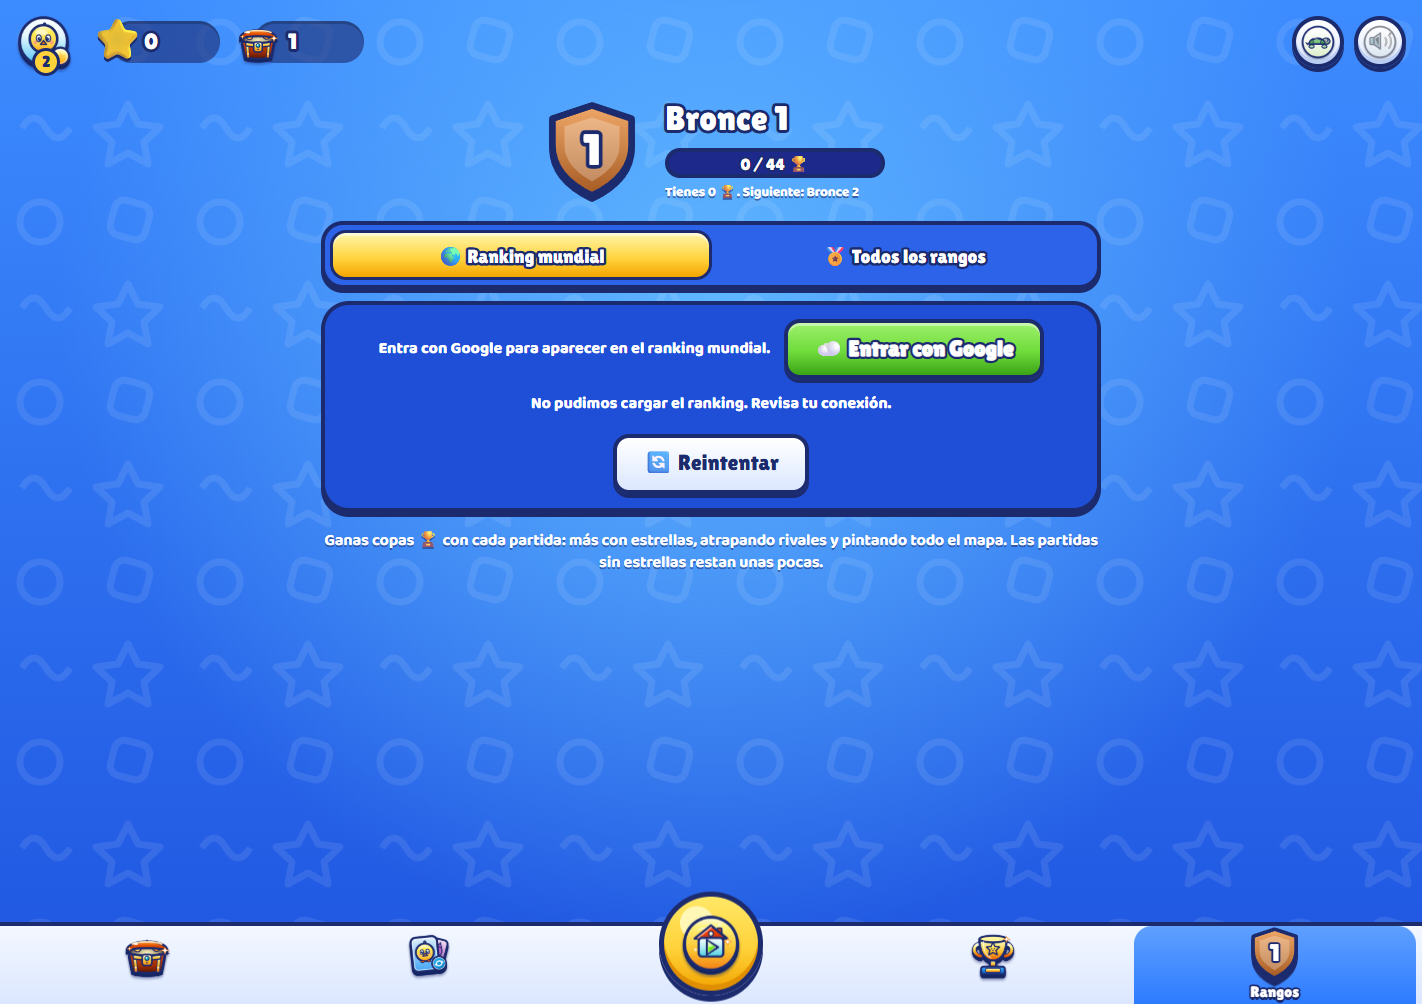
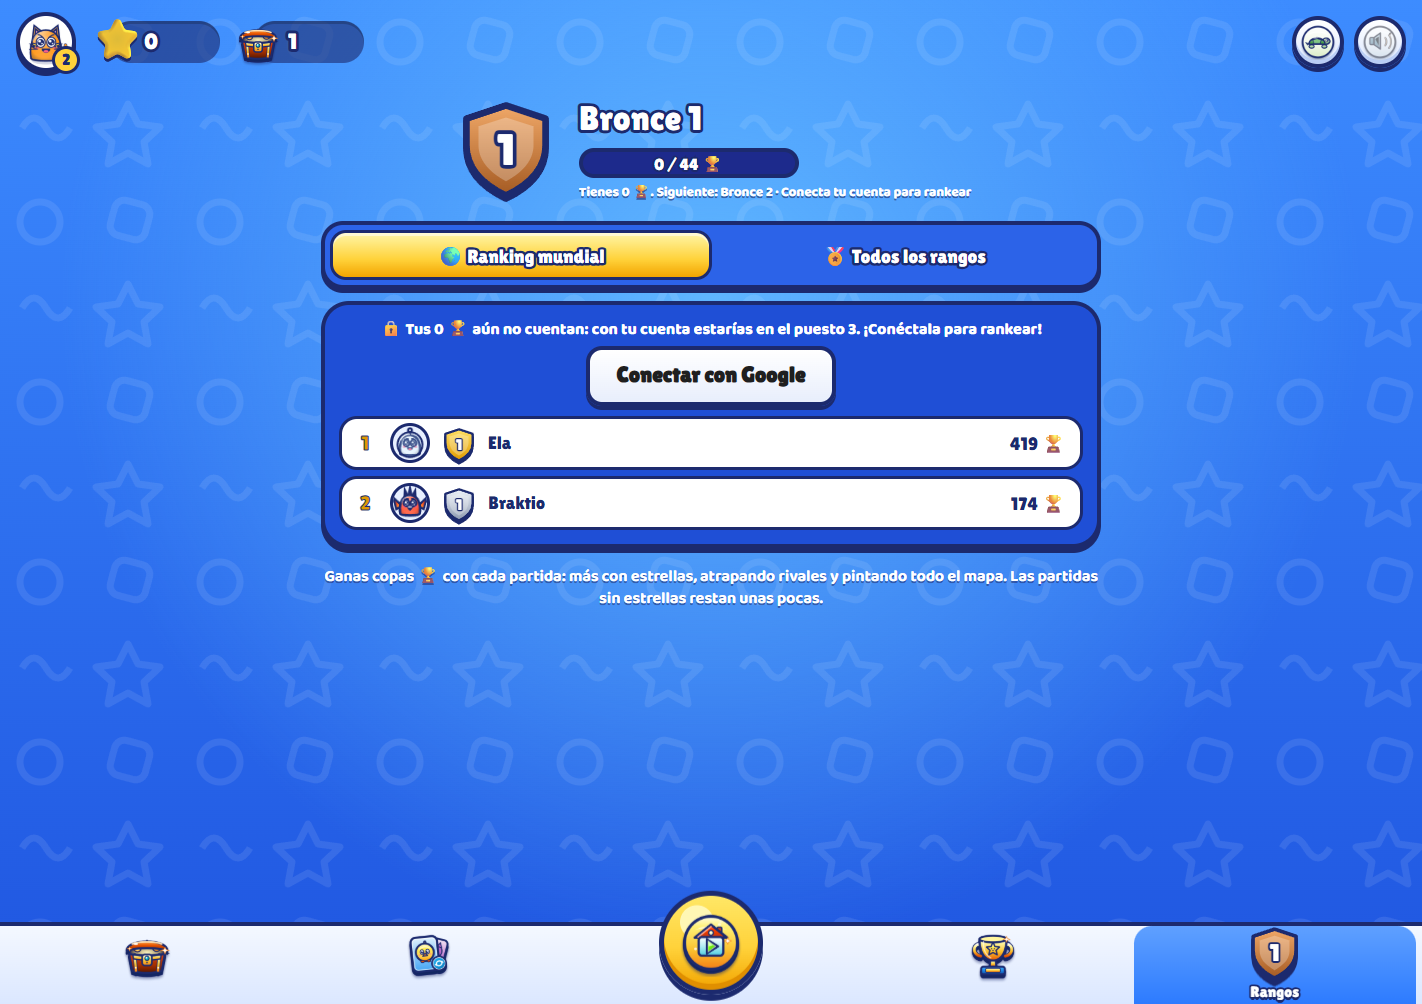
Rangos invita a conectar la cuenta de Google para rankear
Al entrar en Rangos sin cuenta aparece una invitación (una vez por visita), y la lista muestra en qué puesto estarías con tus copas. Al conectarte, el ranking se recarga contigo dentro.

diff --git a/game.js b/game.js
@@ -400,7 +400,7 @@ function showScreen(name) {
   $('play').setAttribute('aria-label', name === 'home' ? '¡A jugar!' : 'Volver al inicio');
   document.querySelector('.screens').scrollTop = 0;
   renderMenu();
-  if (name === 'ranks') void loadLeaderboard();
+  if (name === 'ranks') { void loadLeaderboard(); suggestRankLogin(); }
 }
 document.querySelectorAll('[data-tab]').forEach(button => button.onclick = () => showScreen(button.dataset.tab));
 $('hangar-items').onclick = event => {
@@ -779,7 +779,19 @@ function rankResult(before, after, change) {
   return `<div class="rank-result">${rankBadge(after.tier, 44)}<span>${change >= 0 ? '+' : ''}${change} 🏆 · <b>${after.name}</b>${moved}</span></div>`;
 }
 // Signed-in players keep their row of the global ranking up to date.
-function publishRank() { if (account) cloud.publishRank(account.uid, profile).catch(() => { /* Retried after the next match. */ }); }
+function publishRank() { return account ? cloud.publishRank(account.uid, profile).catch(() => { /* Retried after the next match. */ }) : Promise.resolve(); }
+// Where a player without an account would stand in the loaded ranking (0 if unknown).
+const wouldPlace = () => leaderboard.status === 'ok' ? leaderboard.rows.filter(row => (Number(row.points) || 0) > profile.points).length + 1 : 0;
+// Players who open Rangos without an account are invited, once per visit to the game, to
+// connect it so their trophies count in the world ranking.
+let rankSuggested = false;
+function suggestRankLogin() {
+  if (account || !cloud.available || rankSuggested || state !== 'menu') return;
+  rankSuggested = true;
+  dialog(`<p class="eyebrow">🌍 Ranking mundial</p>${rankBadge(rankFor(profile.points).tier, 90)}<h2>¡Compite con todo el mundo!</h2><p>Tienes <b>${number(profile.points)} 🏆</b>, pero sin cuenta no cuentan en el ranking. Conecta tu cuenta de Google para rankear contra otros jugadores; además, tu progreso quedará guardado en la nube.</p><div class="dialog-buttons login-buttons"><button id="rank-suggest-login" class="dialog-button login google">Conectar con Google</button><button id="rank-suggest-later" class="dialog-button secondary">Ahora no</button></div>`);
+  $('rank-suggest-login').onclick = signIn;
+  $('rank-suggest-later').onclick = () => $('dialog').close();
+}
 let rankTab = 'global', leaderboard = { status: 'idle', rows: [], at: 0 };
 async function loadLeaderboard(force = false) {
   if (!cloud.available || leaderboard.status === 'loading' || (!force && leaderboard.status === 'ok' && Date.now() - leaderboard.at < 60000)) return;
@@ -796,7 +808,7 @@ function renderRanks() {
   $('rank-name').textContent = current.name;
   $('rank-points').textContent = current.next === null ? `${number(profile.points)} 🏆 · ¡Rango máximo!` : `${number(profile.points - current.start)} / ${number(current.next - current.start)} 🏆`;
   $('rank-fill').style.width = (current.next === null ? 100 : (profile.points - current.start) / (current.next - current.start) * 100) + '%';
-  $('rank-next').textContent = current.next === null ? 'Eres una leyenda de Pintamundo.' : `Tienes ${number(profile.points)} 🏆. Siguiente: ${rankFor(current.next).name}`;
+  $('rank-next').textContent = (current.next === null ? 'Eres una leyenda de Pintamundo.' : `Tienes ${number(profile.points)} 🏆. Siguiente: ${rankFor(current.next).name}`) + (account || !cloud.available ? '' : ' · Conecta tu cuenta para rankear');
   document.querySelectorAll('[data-ranks]').forEach(b => b.classList.toggle('selected', b.dataset.ranks === rankTab));
   if (rankTab === 'ladder') {
     $('rank-list').innerHTML = RANKS.map((rank, index) => `<div class="ladder-row">${[0, 1, 2].map(d => {
@@ -806,7 +818,8 @@ function renderRanks() {
     return;
   }
   if (!cloud.available) { $('rank-list').innerHTML = '<p class="rank-note">El ranking mundial está en la app y en el juego en internet.</p>'; return; }
-  const join = account ? '' : '<div class="rank-join"><p>Entra con Google para aparecer en el ranking mundial.</p><button id="rank-login" class="dialog-button">☁ Entrar con Google</button></div>';
+  const place = wouldPlace();
+  const join = account ? '' : `<div class="rank-join"><p>🔒 Tus ${number(profile.points)} 🏆 aún no cuentan${place ? `: con tu cuenta estarías en el <b>puesto ${place}</b>` : ''}. ¡Conéctala para rankear!</p><button id="rank-login" class="dialog-button login google">Conectar con Google</button></div>`;
   const body = leaderboard.status === 'loading' || leaderboard.status === 'idle' ? '<p class="rank-note">Cargando el ranking… ⏳</p>'
     : leaderboard.status === 'error' ? '<p class="rank-note">No pudimos cargar el ranking. Revisa tu conexión.</p><div class="dialog-buttons"><button id="rank-retry" class="dialog-button secondary">🔄 Reintentar</button></div>'
     : !leaderboard.rows.length ? '<p class="rank-note">Todavía no hay nadie. ¡Sé el primero!</p>'
@@ -817,7 +830,7 @@ function renderRanks() {
         return `<li class="${me ? 'me' : ''}"><span class="place">${i + 1}</span><img class="rank-avatar" src="${renderer.portraitURL({ skin, color: '#2fa8ff' }, 40)}" alt="">${rankBadge(rankFor(points).tier, 38)}<b>${cleanName(row.name) || 'Jugador'}${me ? ' (tú)' : ''}</b><span class="points">${number(points)} 🏆</span></li>`;
       }).join('')}</ol>`;
   $('rank-list').innerHTML = join + body;
-  if ($('rank-login')) $('rank-login').onclick = openAccount;
+  if ($('rank-login')) $('rank-login').onclick = signIn;
   if ($('rank-retry')) $('rank-retry').onclick = () => loadLeaderboard(true);
 }
 document.querySelectorAll('[data-ranks]').forEach(button => button.onclick = () => { rankTab = button.dataset.ranks; renderRanks(); });
@@ -863,7 +876,9 @@ async function signIn() {
   $('dialog').close(); renderAccount();
   await syncWithCloud(true);
   if (!account) return;
-  publishRank(); leaderboard.at = 0;
+  // Right away in the world ranking, with the list refreshed if it is on screen.
+  await publishRank(); leaderboard.at = 0;
+  if (screen === 'ranks') void loadLeaderboard(true);
   toast('☁ Conectado con Google.');
   if (!profile.name && state === 'menu' && !$('dialog').open) editName(true, cleanName(account.name.split(' ')[0]));
 }
